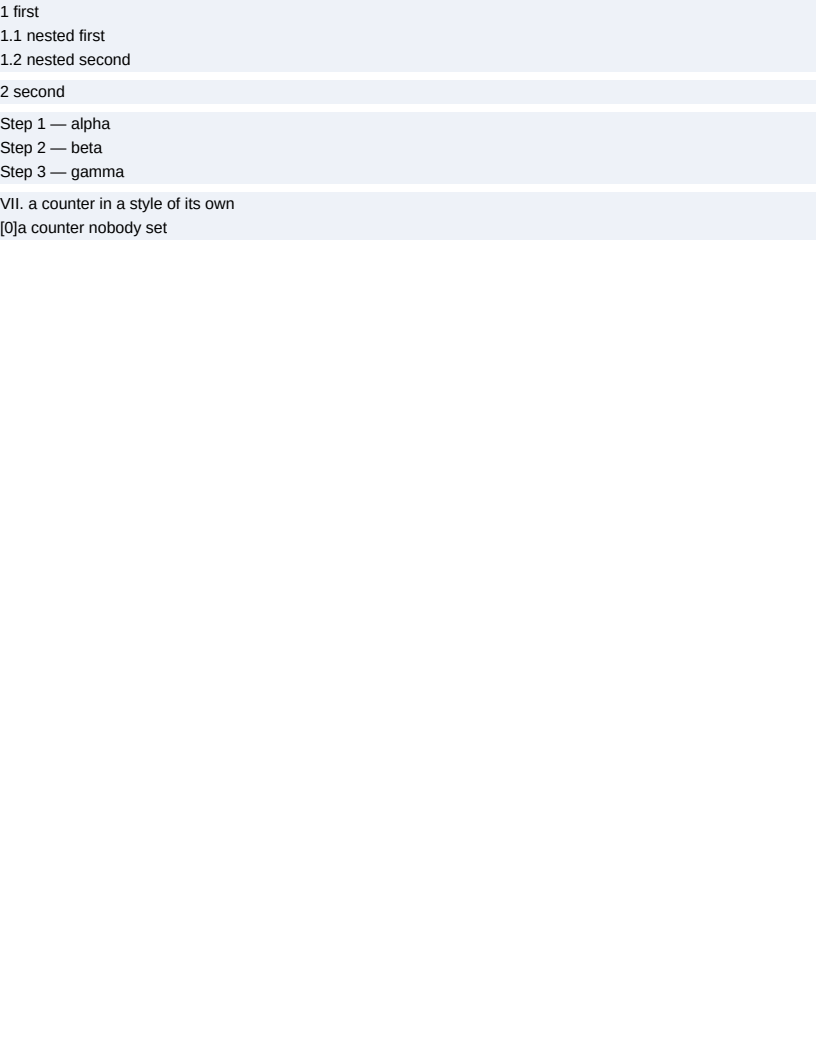
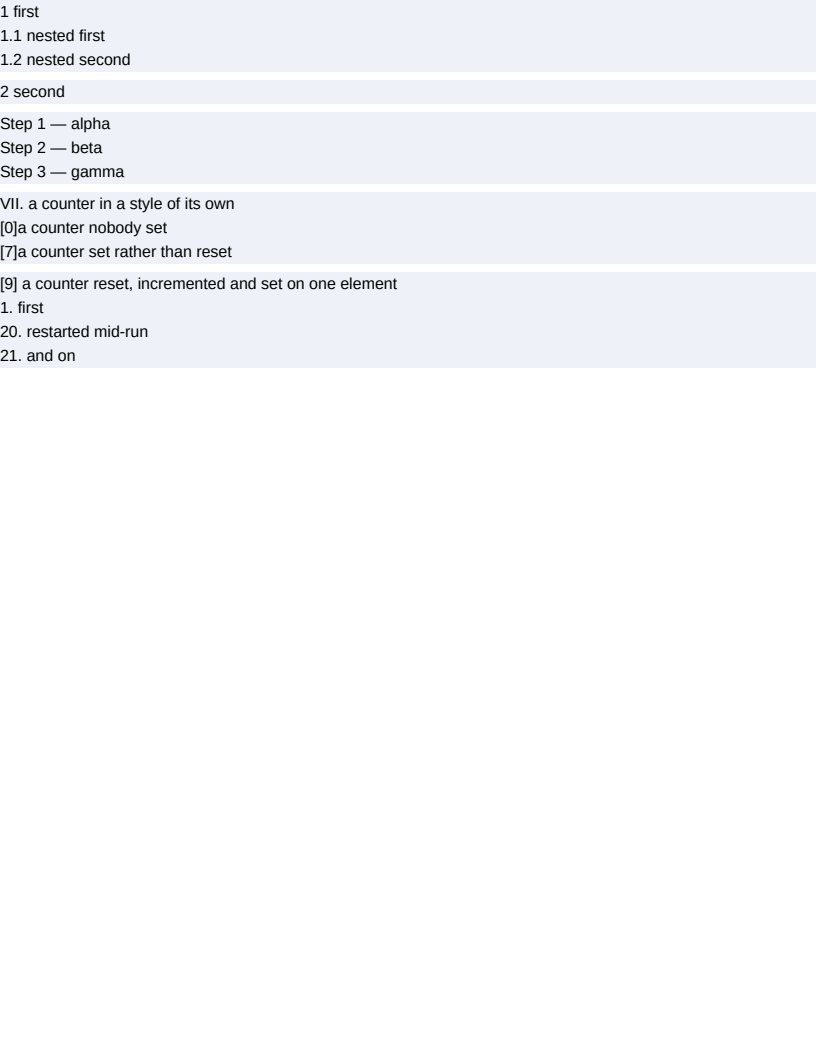
Set a counter with counter-set
counter-set was read by nothing, so a document numbering a run and then correcting it part
way through carried on from wherever the increment had reached.

It differs from counter-reset in the half that is not the value: it creates no SCOPE.
Setting a counter already in scope changes the one that is there, where resetting it nests a
second inside it — so block/counters' new #set reads [7] rather than [3.7] from a
counters() inside a div that reset the same name. That is the whole of the difference, and
the reason the two do not share a branch.

The order is CSS's own and observable: reset, then increment, then set. #ordered does all
three to one counter — reset to 1, increment by 5, set to 9 — and ends on 9, where any other
order gives a different number. #flat is what the property is actually for: a run of
paragraphs numbered 1, 20, 21, the middle one setting the counter it also incremented.

Changed region(s): [[0.0, 0.2188, 0.4902, 0.3438]]

diff --git a/src/Krilla.Html.Tests/Inputs/block/counters/input.css b/src/Krilla.Html.Tests/Inputs/block/counters/input.css
@@ -4,7 +4,7 @@
   matches — the trap `Inputs/flatten.css` works around by enumerating names. An id outranks it in
   both engines.
 */
-#outer, #outer ol, #headings { margin: 0 0 8px 0; padding-left: 0; list-style-type: none; }
+#outer, #outer ol, #headings, #flat { margin: 0 0 8px 0; padding-left: 0; list-style-type: none; }
 li, h3, p { font-size: 16px; line-height: 24px; margin: 0; background-color: #eef2f8; }
 h3 { font-weight: normal; }
 
@@ -26,3 +26,22 @@ h3 { font-weight: normal; }
 
 /* A counter never reset and never incremented reads zero, which CSS requires. */
 #absent::before { content: "[" counter(missing) "]"; }
+
+/* `counter-set` creates no SCOPE, which is the whole of what separates it from `counter-reset`:
+   setting a counter that is already in scope changes the one that is there, so `counters()` reads
+   one level where a reset would nest a second inside it. */
+#scoped { counter-reset: part 3; margin: 0 0 8px 0; }
+#set { counter-set: part 7; }
+#set::before { content: "[" counters(part, ".") "]"; }
+
+/* All three on one element, in CSS's order: reset, then increment, then set — so the element ends
+   on the value it SET rather than on the one it counted to. */
+#ordered { counter-reset: mark 1; counter-increment: mark 5; counter-set: mark 9; }
+#ordered::before { content: "[" counter(mark) "] "; }
+
+/* Setting a counter part way through a run, which is what the property is for: the paragraphs
+   after it carry on from the new value. */
+#flat { counter-reset: line; }
+#flat p { counter-increment: line; }
+#flat p.restart { counter-set: line 20; }
+#flat p::before { content: counter(line) ". "; }

diff --git a/src/Krilla.Html.Tests/Inputs/block/counters/input.html b/src/Krilla.Html.Tests/Inputs/block/counters/input.html
@@ -14,3 +14,10 @@
 </div>
 <p id="roman">a counter in a style of its own</p>
 <p id="absent">a counter nobody set</p>
+<div id="scoped"><p id="set">a counter set rather than reset</p></div>
+<p id="ordered">a counter reset, incremented and set on one element</p>
+<div id="flat">
+  <p>first</p>
+  <p class="restart">restarted mid-run</p>
+  <p>and on</p>
+</div>

diff --git a/src/Krilla.Html/Layout/CssCounters.cs b/src/Krilla.Html/Layout/CssCounters.cs
@@ -28,13 +28,22 @@ sealed class CssCounters
     readonly Dictionary<string, List<int>> scopes = new(StringComparer.Ordinal);
 
     /// <summary>
-    /// Applies an element's <c>counter-reset</c> and <c>counter-increment</c>, in that order.
+    /// Applies an element's <c>counter-reset</c>, <c>counter-increment</c> and <c>counter-set</c>,
+    /// in that order.
     /// </summary>
     /// <remarks>
     /// <para>
     /// The order is CSS's own and it is observable: <c>counter-reset: n 0; counter-increment: n 1</c>
     /// on one element gives 1, where the other order gives 0. An element resetting and incrementing
-    /// the same counter is how a numbered heading restarts its own subsection numbering.
+    /// the same counter is how a numbered heading restarts its own subsection numbering, and one
+    /// that also sets it ends on the value it set rather than on the one it counted to.
+    /// </para>
+    /// <para>
+    /// <c>counter-set</c> differs from <c>counter-reset</c> in the half that is not the value: it
+    /// creates no SCOPE. Setting a counter that is already in scope changes the one that is there,
+    /// where resetting it would nest a second inside it — so a document that sets a counter and then
+    /// reads it with <c>counters()</c> gets one level rather than two. That is the whole of the
+    /// difference, and it is why the two do not share a branch here.
     /// </para>
     /// <para>
     /// Returns the names it pushed, so the caller can pop exactly those when the subtree ends.
@@ -69,6 +78,20 @@ sealed class CssCounters
             }
 
             stack[^1] += value;
+        }
+
+        foreach (var (name, value) in style.CounterSet)
+        {
+            if (!scopes.TryGetValue(name, out var stack) || stack.Count == 0)
+            {
+                // A counter set without ever being reset is created here, exactly as an
+                // incremented one is — and, like it, without a scope to pop, so it lasts the rest
+                // of the document rather than the rest of the subtree.
+                stack = [0];
+                scopes[name] = stack;
+            }
+
+            stack[^1] = value;
         }
 
         return pushed;

diff --git a/src/Krilla.Html/Styling/ComputedStyle.cs b/src/Krilla.Html/Styling/ComputedStyle.cs
@@ -1615,6 +1615,16 @@ sealed record ComputedStyle
     /// </remarks>
     public TextAlignKind? TextAlignLast { get; init; }
 
+    /// <summary>
+    /// The counters this element sets, and to what. Not inherited.
+    /// </summary>
+    /// <remarks>
+    /// Applied after <see cref="CounterReset"/> and <see cref="CounterIncrement"/>, which is CSS's
+    /// own order and observable: an element doing all three to one counter ends on the value it
+    /// SET rather than on the one it counted to.
+    /// </remarks>
+    public (string Name, int Value)[] CounterSet { get; init; } = [];
+
     /// <summary>Whether this style preserves white space rather than collapsing it.</summary>
     public bool PreservesSpaces =>
         WhiteSpace is WhiteSpaceKind.Pre or WhiteSpaceKind.PreWrap;

diff --git a/src/Krilla.Html/Styling/StyleResolver.cs b/src/Krilla.Html/Styling/StyleResolver.cs
@@ -358,6 +358,7 @@ static class StyleResolver
             UnderlineOffset = Thickness(declaration, "text-underline-offset", font, root),
             CounterReset = Counters(declaration, "counter-reset", 0),
             CounterIncrement = Counters(declaration, "counter-increment", 1),
+            CounterSet = Counters(declaration, "counter-set", 0),
             Quotes = ParseQuotes(declaration.GetPropertyValue("quotes"), parent.Quotes),
             Orphans = Count(declaration, "orphans", parent.Orphans),
             Widows = Count(declaration, "widows", parent.Widows),

diff --git a/src/Krilla.Html/Styling/UnsupportedCss.cs b/src/Krilla.Html/Styling/UnsupportedCss.cs
@@ -66,7 +66,6 @@ static class UnsupportedCss
         ("mask-image", ["none"], "nothing is masked"),
         ("content-visibility", ["visible"], "laid out and painted"),
         ("initial-letter", ["normal"], "the first letter is set like the rest"),
-        ("counter-set", [], "the counter keeps the value it had"),
         ("perspective", ["none"], "painted flat"),
         ("transform-style", ["flat"], "painted flat")
     ];

diff --git a/src/Krilla.Html.Tests/DiagnosticTests.cs b/src/Krilla.Html.Tests/DiagnosticTests.cs
@@ -375,7 +375,6 @@ public class DiagnosticTests
                 <div style="text-wrap: balance">p</div>
                 <div style="content-visibility: hidden">u</div>
                 <div style="initial-letter: 2">v</div>
-                <div style="counter-set: chapter 3">w</div>
                 """));
 
     /// <summary>

diff --git a/src/Krilla.Html.Tests/Inputs/compare-all.md b/src/Krilla.Html.Tests/Inputs/compare-all.md
@@ -757,11 +757,26 @@ below came out 8px high.
 What to look at: the `1.1` and `1.2` prefixes. A flat `1` there is `counters()` reading only the
 innermost scope; nothing at all is the comma being lost in the argument split.
 
-**Boxes**: 14 matched, worst offset 0.00px, worst size 0.00px.
+## counter-set
+
+Added later, with the property. `counter-set` was read by nothing, so a document numbering a run and
+then correcting it mid-way carried on from wherever the increment had reached.
+
+It differs from `counter-reset` in the half that is not the value: it creates no SCOPE. `#set` is
+inside a `#scoped` div that resets the counter, and reads `[7]` rather than `[3.7]` — one level,
+where a reset would have nested a second inside the first. That is the whole of the difference and
+the reason the two do not share a branch.
+
+`#ordered` puts all three on one element. CSS's order is reset, then increment, then set, and it is
+observable: reset to 1, increment by 5, set to 9 ends on 9 rather than on 6, and any other order
+gives a different number. `#flat` is what the property is actually for — a run of paragraphs
+numbered 1, 20, 21, with the middle one setting the counter it also incremented.
+
+**Boxes**: 21 matched, worst offset 0.00px, worst size 0.00px.
 
 | Reference (Chrome) | Krilla.Html |
 | --- | --- |
-| **Page 1** | **Page 1. AE 0.0005 · SSIM 0.9999** |
+| **Page 1** | **Page 1. AE 0.0013 · SSIM 0.9997** |
 | <img src="block/counters/reference_0001.png" width="480"> | <img src="block/counters/result%23page_0001.verified.png" width="480"> |
 
 

diff --git a/src/Krilla.Html.Tests/Inputs/block/counters/compare.md b/src/Krilla.Html.Tests/Inputs/block/counters/compare.md
@@ -42,10 +42,25 @@ below came out 8px high.
 What to look at: the `1.1` and `1.2` prefixes. A flat `1` there is `counters()` reading only the
 innermost scope; nothing at all is the comma being lost in the argument split.
 
-**Boxes**: 14 matched, worst offset 0.00px, worst size 0.00px.
+## counter-set
+
+Added later, with the property. `counter-set` was read by nothing, so a document numbering a run and
+then correcting it mid-way carried on from wherever the increment had reached.
+
+It differs from `counter-reset` in the half that is not the value: it creates no SCOPE. `#set` is
+inside a `#scoped` div that resets the counter, and reads `[7]` rather than `[3.7]` — one level,
+where a reset would have nested a second inside the first. That is the whole of the difference and
+the reason the two do not share a branch.
+
+`#ordered` puts all three on one element. CSS's order is reset, then increment, then set, and it is
+observable: reset to 1, increment by 5, set to 9 ends on 9 rather than on 6, and any other order
+gives a different number. `#flat` is what the property is actually for — a run of paragraphs
+numbered 1, 20, 21, with the middle one setting the counter it also incremented.
+
+**Boxes**: 21 matched, worst offset 0.00px, worst size 0.00px.
 
 | Reference (Chrome) | Krilla.Html |
 | --- | --- |
-| **Page 1** | **Page 1. AE 0.0005 · SSIM 0.9999** |
+| **Page 1** | **Page 1. AE 0.0013 · SSIM 0.9997** |
 | <img src="reference_0001.png" width="480"> | <img src="result%23page_0001.verified.png" width="480"> |
 

diff --git a/src/Krilla.Html.Tests/Inputs/block/counters/notes.md b/src/Krilla.Html.Tests/Inputs/block/counters/notes.md
@@ -39,3 +39,18 @@ below came out 8px high.
 
 What to look at: the `1.1` and `1.2` prefixes. A flat `1` there is `counters()` reading only the
 innermost scope; nothing at all is the comma being lost in the argument split.
+
+## counter-set
+
+Added later, with the property. `counter-set` was read by nothing, so a document numbering a run and
+then correcting it mid-way carried on from wherever the increment had reached.
+
+It differs from `counter-reset` in the half that is not the value: it creates no SCOPE. `#set` is
+inside a `#scoped` div that resets the counter, and reads `[7]` rather than `[3.7]` — one level,
+where a reset would have nested a second inside the first. That is the whole of the difference and
+the reason the two do not share a branch.
+
+`#ordered` puts all three on one element. CSS's order is reset, then increment, then set, and it is
+observable: reset to 1, increment by 5, set to 9 ends on 9 rather than on 6, and any other order
+gives a different number. `#flat` is what the property is actually for — a run of paragraphs
+numbered 1, 20, 21, with the middle one setting the counter it also incremented.
